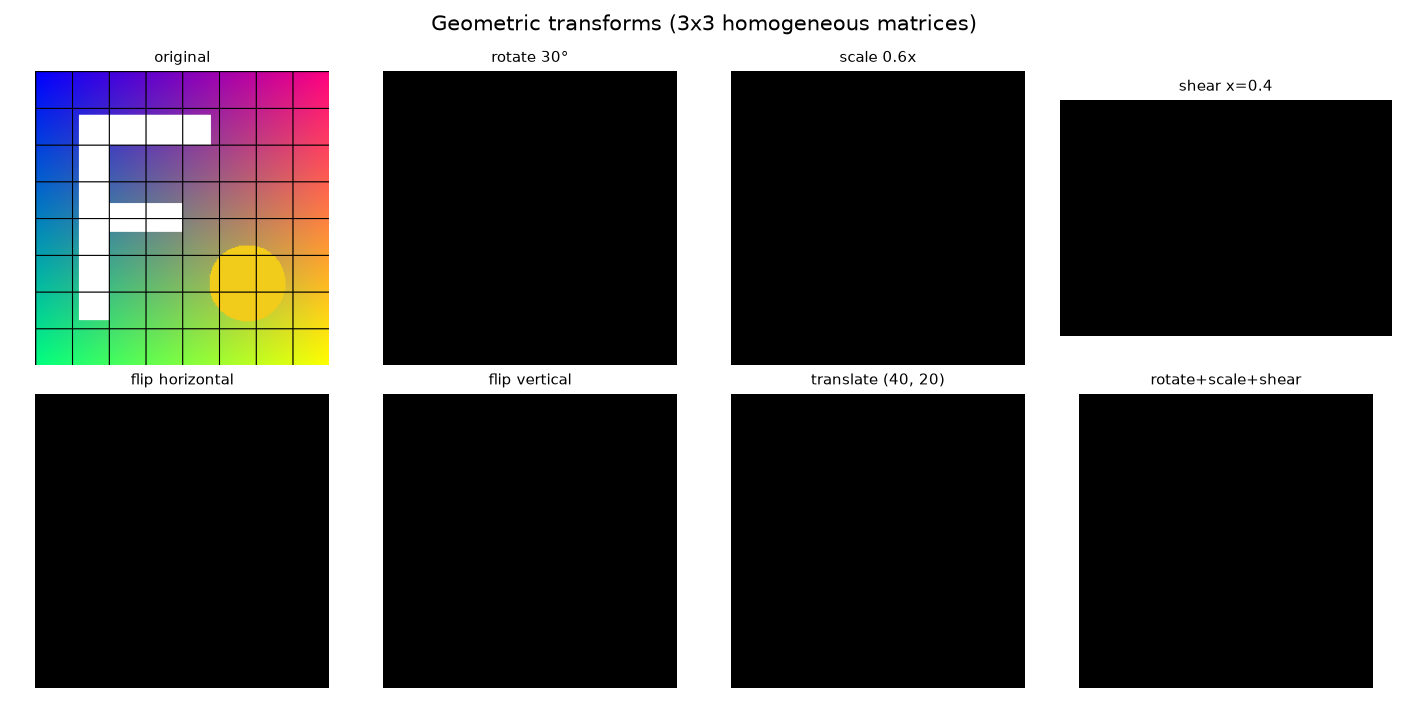
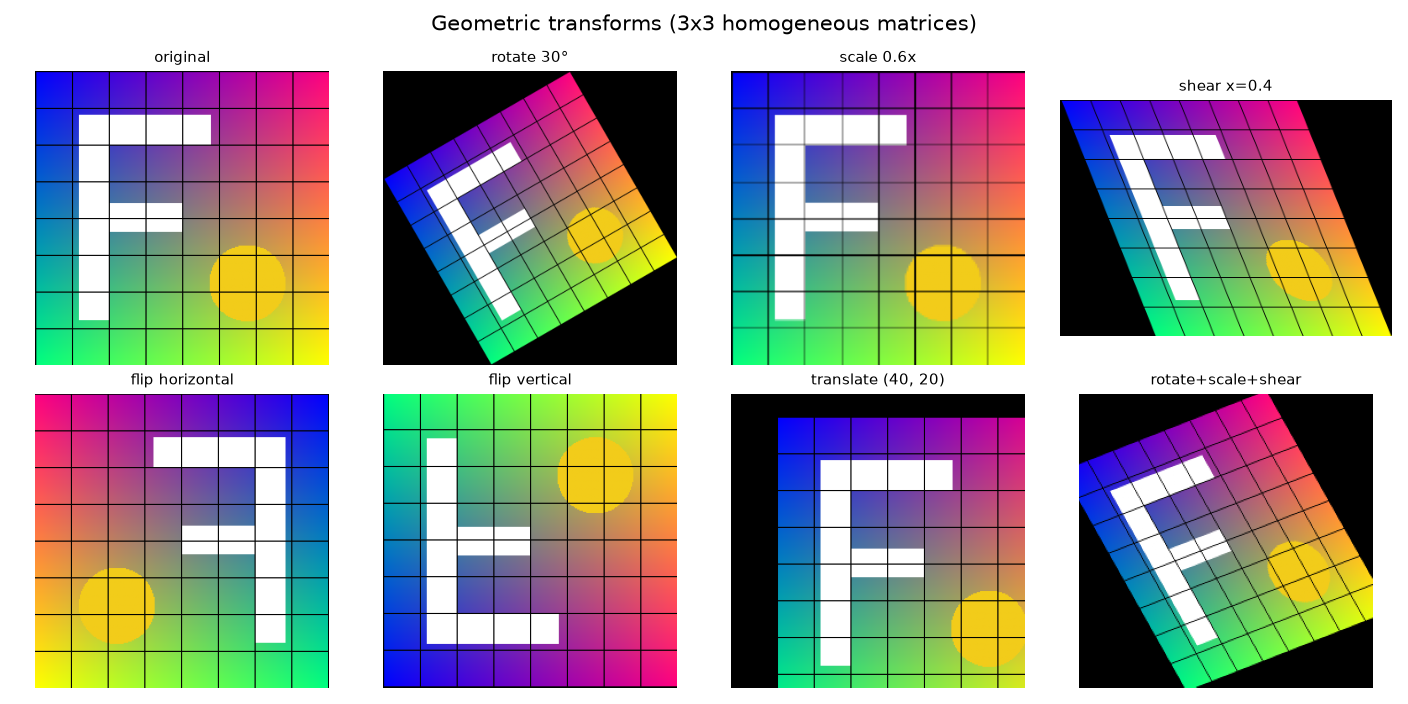
added the changes in the transformation file

diff --git a/matrix_image/matrix_ops.py b/matrix_image/matrix_ops.py
@@ -1,11 +1,7 @@
 import numpy as np 
 
 def identity(n):
-
-    I = np.zeros((n,n))
-    for i in range(n):
-        I[i,i] = 1.0 
-        return I 
+    return np.eye(n, dtype=float)
 
 def transpose(A):
     A = np.asarray(A, dtype=float)
